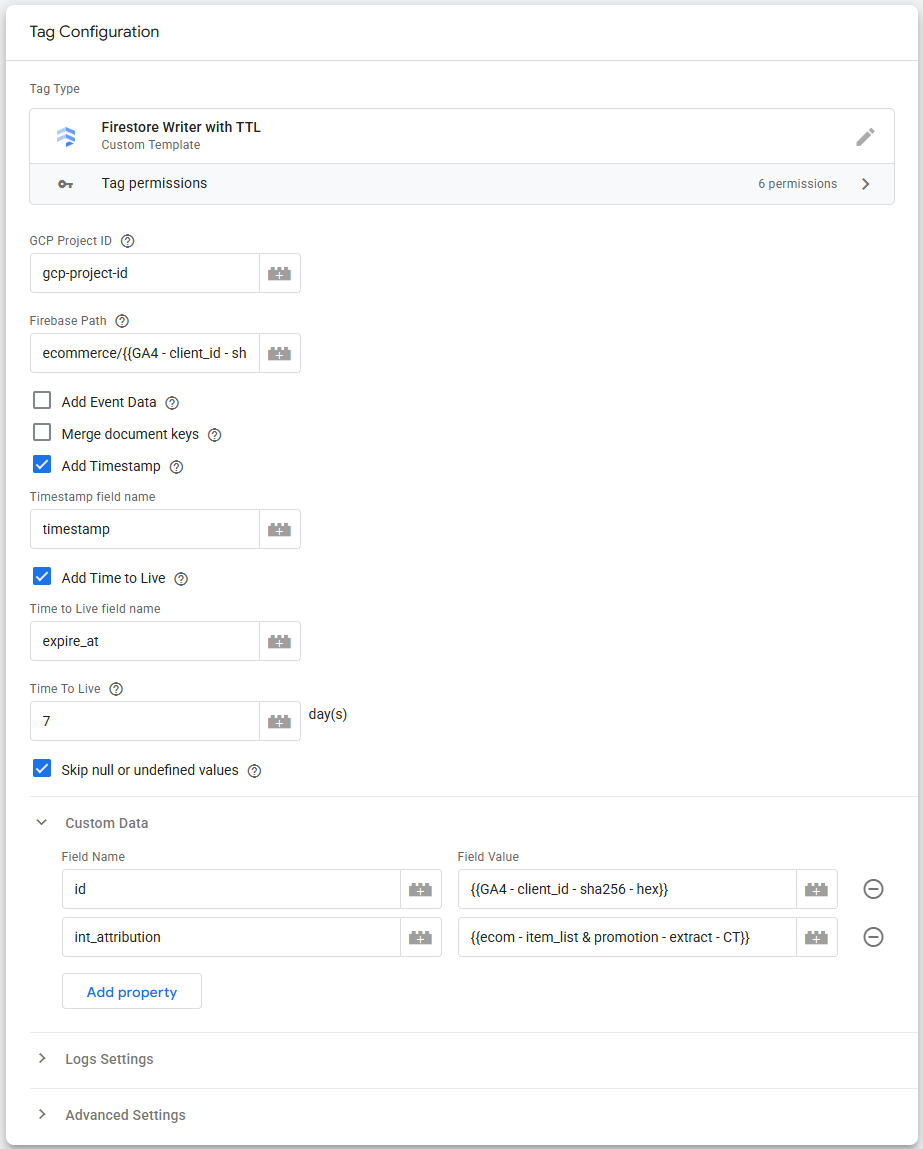
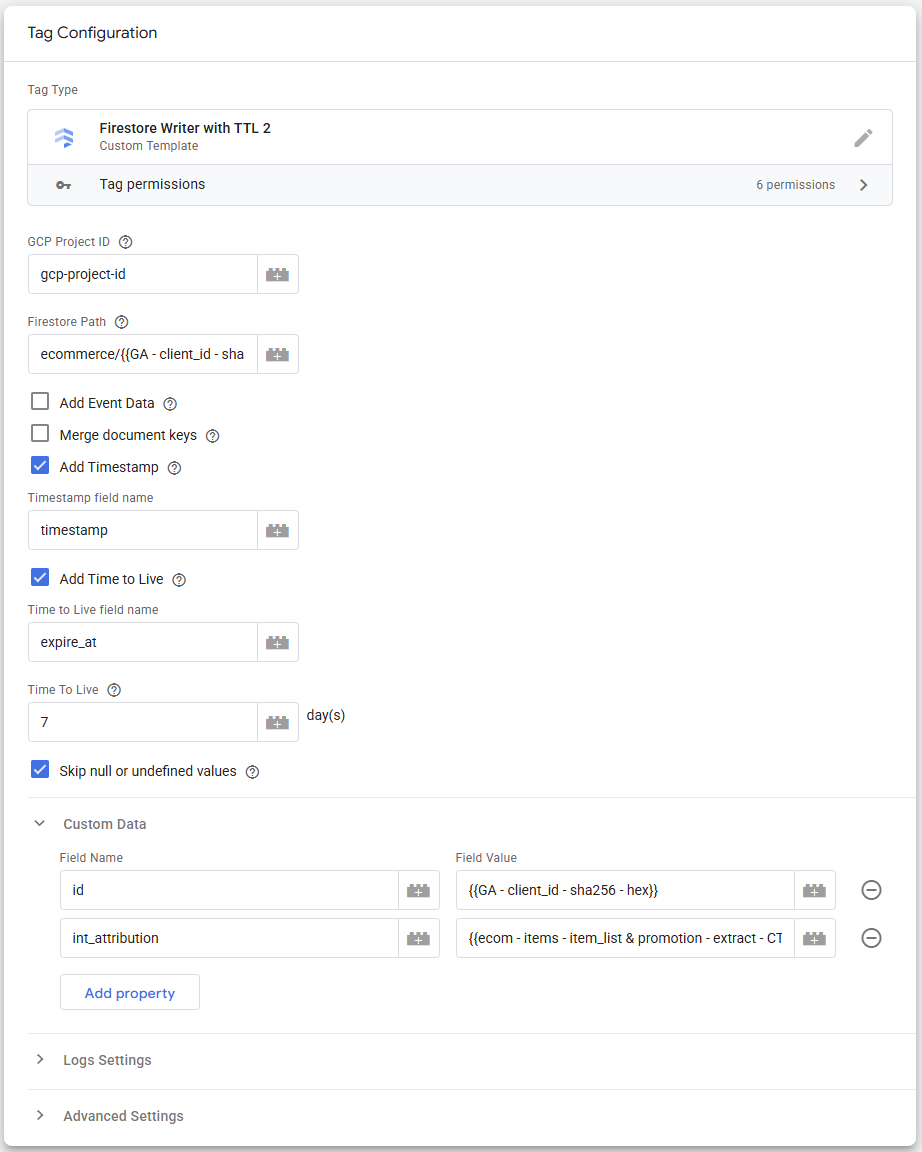
encodeUri added, and some escaping added

diff --git a/template.js b/template.js
@@ -10,6 +10,8 @@ const getContainerVersion = require('getContainerVersion');
 const Math = require('Math');
 const Object = require('Object');
 const makeInteger = require('makeInteger');
+const makeString = require('makeString');
+const encodeUri = require('encodeUri');
 const encodeUriComponent = require('encodeUriComponent');
 
 // —––––––––––––––––– CONSTANTS –––––––––––––––––—
@@ -32,9 +34,7 @@ const isLoggingEnabled = determinateIsLoggingEnabled();
 // —––––––––––––––––– HELPERS –––––––––––––––––—
 function pad(num, width) {
   let s = '' + num;
-  while (s.length < width) {
-    s = '0' + s;
-  }
+  while (s.length < width) s = '0' + s;
   return s;
 }
 
@@ -46,9 +46,9 @@ function buildNumericIso(ts) {
   // time‐of‐day
   let msec = ts % MS_PER_DAY;
   const hour = Math.floor(msec / MS_PER_HOUR);
-	msec = msec - hour * MS_PER_HOUR;
+    msec = msec - hour * MS_PER_HOUR;
   const minute = Math.floor(msec / MS_PER_MINUTE);
-	msec = msec - minute * MS_PER_MINUTE;
+    msec = msec - minute * MS_PER_MINUTE;
   const second = Math.floor(msec / 1000);
   const mill = msec - second * 1000;
 
@@ -81,7 +81,7 @@ function buildNumericIso(ts) {
   }
 
   const month = monthIndex + 1;
-  const day   = days + 1;
+  const day = days + 1;
 
   return (
     pad(year,4) + '-' + pad(month,2) + '-' + pad(day,2) +
@@ -125,6 +125,27 @@ function wrapValue(v) {
     return { mapValue: { fields: flds } };
   }
   return { nullValue: null };
+}
+
+/**
+ * Quote Firestore field paths that contain reserved characters.
+ * Reserved: '.', '*', '~', '/', '[', ']', ' ' (space)
+ */
+function quoteFieldPath(field) {
+  const s = makeString(field);
+  let needs = false;
+  for (let i = 0; i < s.length; i = i + 1) {
+    const ch = s.charAt(i);
+    if (ch === '.' || ch === '*' || ch === '~' || ch === '/' || ch === '[' || ch === ']' || ch === ' ') {
+      needs = true;
+      break;
+    }
+  }
+  if (!needs) return s;
+
+  // Escape backticks via split/join
+  const escaped = s.split('`').join('\\`');
+  return '`' + escaped + '`';
 }
 
 // —––––––––––––––––– BUILD FIRESTORE FIELDS –––––––––––––––––—
@@ -175,29 +196,35 @@ if (data.addEventData) {
 }
 
 // —––––––––––––––––– FIRESTORE REST CALL –––––––––––––––––—
-const payload = { fields: fields };
 const projectId = data.gcpProjectId;
-const rawPath = data.firebasePath;  // e.g. "myCollection" or "myCollection/12345"
-const baseUrl   =
+
+// Normalize rawPath (avoid accidental leading '/')
+let rawPath = makeString(data.firestorePath || '');
+if (rawPath.length > 0 && rawPath.charAt(0) === '/') {
+  rawPath = rawPath.substring(1);
+}
+
+// Build base URL: use encodeUri for PATH segments
+const baseUrl =
   'https://firestore.googleapis.com/v1/projects/' +
-  projectId +
+  encodeUri(projectId) +
   '/databases/(default)/documents/' +
-  rawPath;
+  encodeUri(rawPath);
 
 let url, method;
 
-// if user gave a full path (collection + ID)…
+// if user gave a full path (collection + ID)
 if (rawPath.indexOf('/') > -1) {
-  // always PATCH to upsert
   url    = baseUrl;
   method = 'PATCH';
 
-  if (data.firebaseMerge) {
+  if (data.firestoreMerge) {
     const fieldNames = Object.keys(fields);
     for (let i = 0; i < fieldNames.length; i = i + 1) {
       const fp = fieldNames[i];
+      const quoted = quoteFieldPath(fp); // backtick when needed
       url = url + (i === 0 ? '?' : '&') + 
-            'updateMask.fieldPaths=' + encodeUriComponent(fp);
+			'updateMask.fieldPaths=' + encodeUriComponent(quoted);
     }
   }
 }
@@ -246,18 +273,3 @@ sendHttpRequest(
     data.gtmOnFailure();
   }
 );
-function determinateIsLoggingEnabled() {
-  if (!data.logType) {
-    return isDebug;
-  }
-
-  if (data.logType === 'no') {
-    return false;
-  }
-
-  if (data.logType === 'debug') {
-    return isDebug;
-  }
-
-  return data.logType === 'always';
-}

diff --git a/README.md b/README.md
@@ -13,6 +13,6 @@ The unique function with this Tag is that it allows you to write [**TTL (Time To
 
 <img src="images/firestore-writer-with-ttl-sgtm-tag-template.png" alt="Firestore Writer with Time To Live SGTM Tag Template" />
 
-Since [**Server-side GTM Firestore API**](https://developers.google.com/tag-platform/tag-manager/server-side/api#firestore) cannot directly utilize the standard to set **TTL**, this custom Template sends data directly to the [**Firestore API**](https://cloud.google.com/firestore/docs/reference/rest/v1/projects.databases.documents) using the **sendHttpRequest** function. Additionally, because the Server-side GTM API lacks native **Date** object support, the Template includes its own custom date-math routine to accurately create and manage dates.
+Since [**Server-side GTM Firestore API**](https://developers.google.com/tag-platform/tag-manager/server-side/api#firestore) cannot directly utilize the standard to set **TTL**, this custom Template sends data directly to the [**Firestore API**](https://cloud.google.com/firestore/docs/reference/rest/v1/projects.databases.documents) using the **sendHttpRequest** function. Additionally, because the Server-side GTM API lacks native **Date** object support, the Template includes its own custom date-math routine to create and manage dates.
 
 The functionality and look of the Tag Template is somewhat similar to the [Firestore Writer Tag](https://github.com/stape-io/firestore-writer-tag), and some elements have been borrowed from that Template.
